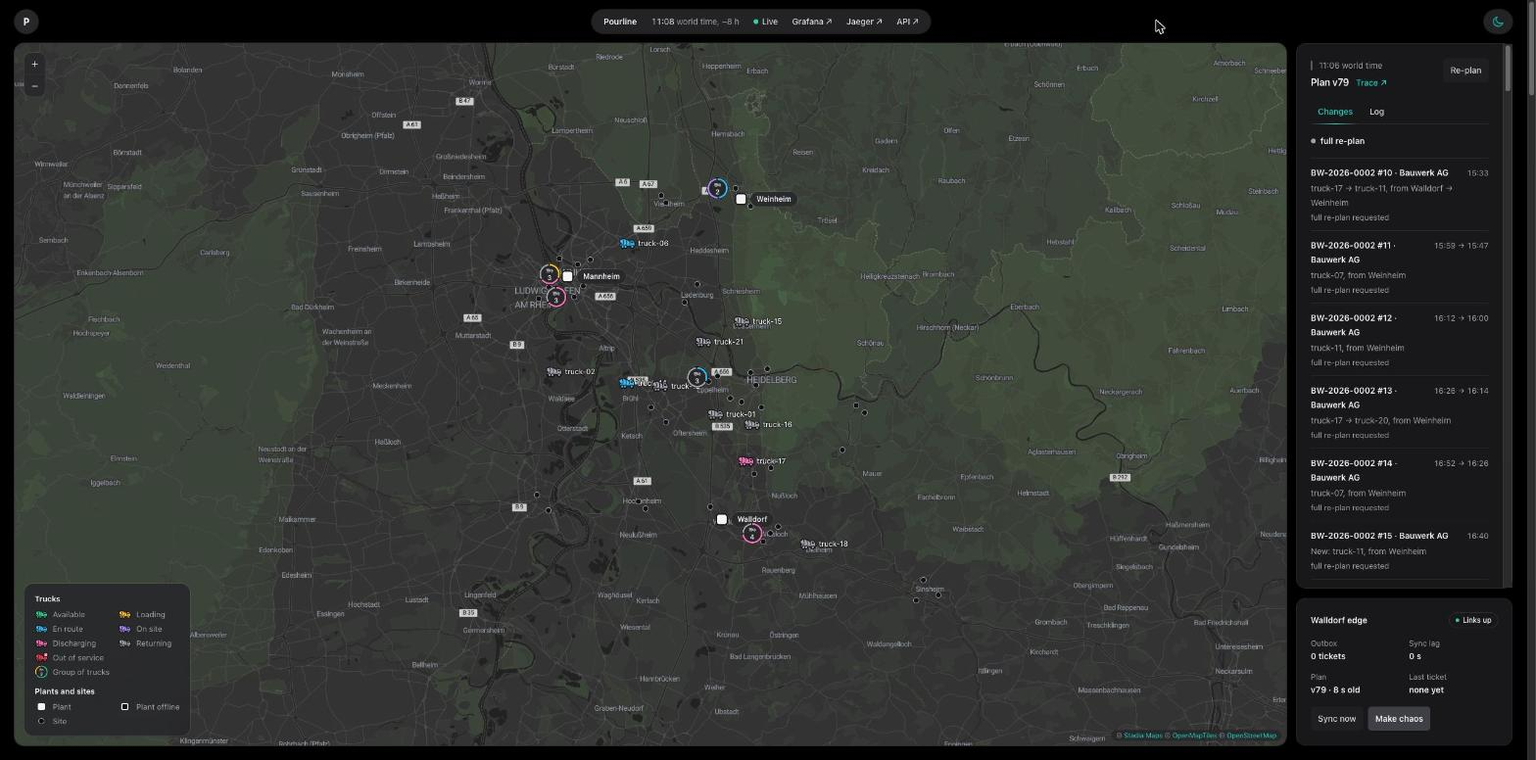
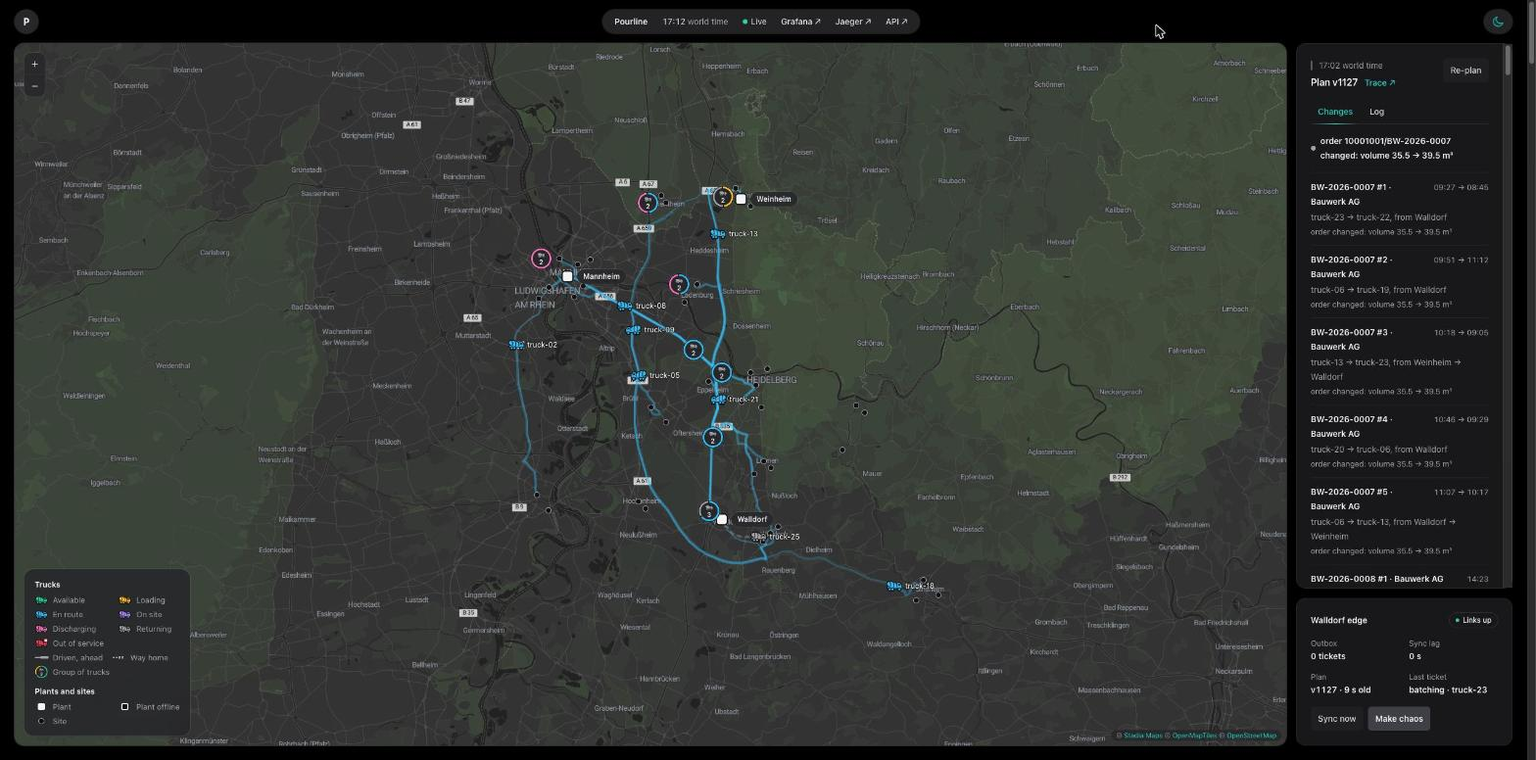
docs: truck lines (M11 step 8)
The README says the trucks drive OpenStreetMap roads from the ODbL file
make routes builds, why their reported speeds vary, and what make routes
needs and does. It adds trucks/{id}/route, events.trucks.> with its route
subject, routes among the traced reports and in the console's pushed and
event-lag kinds, and the roads on the map: thick ahead, thin behind,
dashed on the way home, dimmed except the selected truck's, with the
popup's heading and km to go. How it works covers how the console keeps
and shows routes, the CSP names Leaflet's source map, and the map's
OpenStreetMap credit covers the roads. docs/console.jpg is retaken with
roads.

The architecture doc puts the route in the context, the EVENTS labels,
the simulators row and the console's live path. ADR 0001 is amended for
the route subject, and ADR 0006 for OSRM supplying the simulated roads
offline while travel time stays haversine. The plan's CSP rows now say what
the source-map fix changed.

diff --git a/docs/context/specs/M11-truck-lines-plan.html b/docs/context/specs/M11-truck-lines-plan.html
@@ -207,12 +207,12 @@ while it drives        truck ─MQTT trucks/{id}/gps─▶ … as today ─SSE t
 <tr><td><code>crates/domain</code></td><td><code>events.rs</code>: <code>TruckRouteReported</code>, its subject, the <code>subject()</code> doc, and two test assertions.</td></tr>
 <tr><td><code>crates/ingest</code></td><td><code>telematics.rs</code>: the route arm, its checks and its tests.</td></tr>
 <tr><td><code>crates/dispatch</code></td><td><code>intake.rs</code>: the variant in its two matches, and <code>events.trucks.&gt;</code> in the module doc.</td></tr>
-<tr><td><code>crates/console</code></td><td><code>state.rs</code>: the routes, the rule, the pushes and <code>routes</code> in the snapshot. <code>live.rs</code>: the route arm, a push after each status, the pushes in <code>load_world</code>, and the module doc. <code>http.rs</code> and <code>metrics.rs</code>: <code>route</code> in their doc lists, and one more assertion in the snapshot test. <code>tests/live.rs</code>: two tests. <code>web/app.js</code>: the lines, the split, the legend row, the popup row and the label. <code>web/app.css</code>: <code>.route</code> and the legend samples.</td></tr>
+<tr><td><code>crates/console</code></td><td><code>state.rs</code>: the routes, the rule, the pushes and <code>routes</code> in the snapshot. <code>live.rs</code>: the route arm, a push after each status, the pushes in <code>load_world</code>, and the module doc. <code>http.rs</code> and <code>metrics.rs</code>: <code>route</code> in their doc lists, and one more assertion in the snapshot test. <code>http.rs</code> also lets the CSP’s <code>connect-src</code> fetch Leaflet’s source map, which the browser’s developer tools load; you saw its error after step 3’s deploy. <code>tests/live.rs</code>: two tests. <code>web/app.js</code>: the lines, the split, the legend row, the popup row and the label. <code>web/app.css</code>: <code>.route</code> and the legend samples.</td></tr>
 <tr><td><code>.github/workflows/ci.yml</code></td><td>One line on the metadata step: the simulators image’s licence label (decision 4).</td></tr>
 <tr><td>SPEC and CLAUDE.md</td><td>SPEC §2, §3, §5, §9, §10, §11 and §13, and milestone 11 in CLAUDE.md.</td></tr>
 <tr><td>Other docs</td><td>README: Prerequisites, Commands, Walkthrough step 7, Watching the simulators, Watching ingest, the triggers table, the tracing paragraph, the console’s pushed kinds and event-lag kinds, Map console and the screenshot’s alt text, How it works, the attribution paragraph and License. <code>docs/architecture.md</code>: the Context node and paragraph, the EVENTS labels, the simulators row and the console’s live path. ADRs 0001 and 0006 amended. <code>docs/console.jpg</code> retaken.</td></tr>
 <tr><td>Tools, for <code>make routes</code> only</td><td>osmium-tool from brew, the OSRM image, and Geofabrik’s extracts.</td></tr>
-<tr><td>Unchanged</td><td><code>domain::Truck</code>, the planner and <code>TravelTimeProvider</code>, the NATS streams and consumers, <code>TruckView</code> and <code>/world</code>, the SSE stream’s other events, the CSP, the metrics, the dashboard, the charts, compose, k3d, the e2e, the Dockerfile unless step 1 bumps Rust, and <code>.env.example</code>. No new crate, service, port or variable.</td></tr>
+<tr><td>Unchanged</td><td><code>domain::Truck</code>, the planner and <code>TravelTimeProvider</code>, the NATS streams and consumers, <code>TruckView</code> and <code>/world</code>, the SSE stream’s other events, the metrics, the dashboard, the charts, compose, k3d, the e2e, the Dockerfile unless step 1 bumps Rust, and <code>.env.example</code>. No new crate, service, port or variable.</td></tr>
 </tbody>
 </table>
 
@@ -230,7 +230,7 @@ while it drives        truck ─MQTT trucks/{id}/gps─▶ … as today ─SSE t
 
 <h2 id="security">Security</h2>
 <ul>
-<li>The running stack gains one MQTT topic and one NATS subject, and no port, service, stream or consumer. The console serves the lines from its own state over its existing stream, so the CSP and its test stay as they are. The page still loads only its own files, Leaflet and the tiles.</li>
+<li>The running stack gains one MQTT topic and one NATS subject, and no port, service, stream or consumer. The console serves the lines from its own state over its existing stream. The CSP’s <code>connect-src</code> gains one URL, Leaflet’s source map, which the browser’s developer tools fetch and which its test now names. The page still loads only its own files, Leaflet and the tiles.</li>
 <li>Ingest checks every route at the trust boundary: the shared header (the vehicle matches the topic, and the truck is in the seed), and at least two points, each finite and in range. A malformed route goes to the DLQ, never to the map, and no route reaches <code>TravelTimeProvider</code>, the planner or <code>domain::Truck</code>.</li>
 <li>A message over rumqttc’s 10,240 B limit from any other sender would stall ingest’s MQTT intake instead of dead-lettering. That is how every truck topic behaves today, and the 8 KiB bound keeps our simulators well clear of it.</li>
 <li>The console holds at most one route per seed truck, 25 in all. Our simulators’ routes have at most 215 points today and about 430 within the bound; another sender’s are bounded only by rumqttc’s 10,240 B packet, about 1,700 short points.</li>

diff --git a/README.md b/README.md
@@ -37,6 +37,8 @@ truck down, delay a site or cut the plant off.
   the [k3d install script](https://k3d.io) and [Helm's](https://helm.sh/docs/intro/install/).
   Check with `k3d version && kubectl version --client && helm version`.
 - For `make e2e`, also **kind** and **jq**: `brew install kind jq`.
+- Only for `make routes`: **osmium-tool** (`brew install osmium-tool`) and internet access for a
+  741 MB download. Its output is committed, so nothing else needs it.
 
 ## Walkthrough
 
@@ -67,10 +69,11 @@ step links to the section that explains what you see.
    kubectl --context k3d-cloud -n pourline patch customerintegration bauwerk-ag --type merge -p '{"spec":{"paused":false}}'
    ```
    ([Kubernetes](#kubernetes), [The operator](#the-operator))
-7. **Watch the map.** Open the map console at http://localhost:8080/console. Click a truck and
-   press *Break down*: it turns red with an ×, and if it had planned loads, the panel shows the new
-   plan's changes with a reason for each. The *Log* tab links every action to its trace in Jaeger.
-   ([Map console](#map-console))
+7. **Watch the map.** Open the map console at http://localhost:8080/console. A driving truck shows
+   its road, thick ahead and thin behind. Click one: its road stands out, and its popup says where
+   it is heading and how far it has to go. Press *Break down*: it turns red with an ×, and if it
+   had planned loads, the panel shows the new plan's changes with a reason for each. The *Log* tab
+   links every action to its trace in Jaeger. ([Map console](#map-console))
 8. **Cut the plant off.** Press *Make chaos* on the console's Walldorf card, or run `make chaos`.
    Both cut the Walldorf plant off for two minutes. The plant-agent keeps batching, its outbox
    fills, and it drains in order once the link is back. On a fresh cluster the first cut can end
@@ -92,6 +95,7 @@ step links to the section that explains what you see.
 | `make bench` | Runs the planner benchmarks at 50, 200 and 1,000 loads (a few minutes) |
 | `make audit` | Checks the dependencies against the RustSec advisory database |
 | `make sqlx-prepare` | Refreshes `.sqlx/` after a query or migration changes (needs `make up` and `cargo install sqlx-cli --locked`) |
+| `make routes` | Rebuilds the trucks' roads from OpenStreetMap with a local OSRM, after the seed's plants or sites change (needs Docker, osmium-tool and internet; the output is committed): see [Watching the simulators](#watching-the-simulators) |
 | `make k8s` | Runs Pourline in two k3d clusters, `cloud` and `plant-walldorf`, with the [map console](#map-console): see [Kubernetes](#kubernetes) |
 | `make chaos` | Cuts `plant-walldorf` off the cloud for 2 minutes, then reconnects it, and shows its outbox draining (after `make k8s`): see [`make chaos`](#make-chaos) |
 | `make e2e` | Installs the cloud chart and the three customers on a fresh kind cluster, plays the demo, and checks for a plan and an empty DLQ, as CI does: see [`make e2e`](#make-e2e) |
@@ -124,6 +128,16 @@ around Heidelberg and Mannheim. It holds our master data: 3 customers and their 
 postal code's centroid. The world also has 3 plants, 25 trucks and 4 mix designs. The [architecture doc](docs/architecture.md#context)
 shows how it fits together.
 
+The trucks drive OpenStreetMap roads. [`deploy/seed/rhine-neckar.routes.json`](deploy/seed/rhine-neckar.routes.json)
+holds the road from each plant to each site, 120 in all. A truck drives back on the same road, and
+after a breakdown it drives home along it from where it stopped. A drive still takes as long as it
+would on the straight line between its ends, haversine × 1.3 at 40 km/h, ±10 %, so the speed a
+truck reports depends on how roundabout its road is: 29–91 km/h between plant and site, and up to
+about 106 km/h on a drive home after a breakdown. `make routes` builds the file with OSRM's car
+profile from Geofabrik's extracts, and only needs to run after the seed's plants or sites change.
+It downloads 741 MB into `target/routes`, runs OSRM on `127.0.0.1:5005` while it works, and prints
+a summary to check before you commit the file. The file is under the ODbL: see [License](#license).
+
 ```sh
 make logs                                                         # status changes, tickets, orders, SFTP drops
 docker exec pourline-mosquitto-1 mosquitto_sub -t 'trucks/#' -v   # live truck telematics
@@ -133,7 +147,7 @@ docker exec pourline-sftp-1 ls -l /config/rheinbau-gmbh           # rheinbau-gmb
 
 | What | Channel | Notes |
 |---|---|---|
-| Truck telematics | MQTT `trucks/{id}/gps`, `/drum`, `/status` | GPS every 10 s while moving and every 60 s parked. Some messages are duplicated or reordered, and dead zones end in late bursts. `seq` and `ts_ms` let a consumer restore the order. |
+| Truck telematics | MQTT `trucks/{id}/gps`, `/drum`, `/status`, `/route` | GPS every 10 s while moving and every 60 s parked. A route goes out once per drive, as it begins: the road the truck is about to drive, after its status and before its first fix. Some messages are duplicated or reordered, and dead zones end in late bursts. `seq` and `ts_ms` let a consumer restore the order. |
 | Batch tickets | MQTT `plants/{id}/tickets` | `batching`, `loading` and `loaded` for each load. A plant never runs more batches than it has loading bays. |
 | `bauwerk-ag` orders | HTTP POST, JSON | Every change is re-sent as the full document, and 5 % are sent twice. |
 | `neckar-infra` orders | HTTP POST, XML | Schema v1 and v2 are live side by side. |
@@ -163,9 +177,11 @@ To run the simulators outside Docker, stop the container first (`docker compose 
 ## Watching ingest
 
 Ingest turns every order, telematics message and batch ticket into a canonical event on the
-`EVENTS` stream (subjects `events.orders.*`, `events.trucks.*`, `events.plants.*`). Duplicates
-are skipped, and anything it can't map goes to the `DLQ` stream with every error. The [architecture doc](docs/architecture.md#an-orders-path)
-follows an order through the pipeline.
+`EVENTS` stream (subjects `events.orders.*`, `events.trucks.>`, `events.plants.*`). A truck's
+route has a subject of its own, `events.trucks.{id}.route`, and needs at least two points, each a
+coordinate. Duplicates are skipped, and anything it can't map goes to the `DLQ` stream with every
+error. The [architecture doc](docs/architecture.md#an-orders-path) follows an order through the
+pipeline.
 
 ```sh
 make logs                                    # simulators; for ingest: docker logs -f pourline-ingest-1
@@ -379,12 +395,13 @@ carries the delivery's `trace_id`, so http://localhost:16686/trace/{trace_id} fi
 letters show as red spans.
 
 GPS and drum readings aren't traced. At about two a second they would bury every other trace, and
-they never trigger a re-dispatch. Status reports, batch tickets and every dead letter are traced.
-Spans carry ids and counts, never payloads. Jaeger keeps them in memory, so `make down` clears them.
+they never trigger a re-dispatch. Status reports, routes, batch tickets and every dead letter are
+traced. Spans carry ids and counts, never payloads. Jaeger keeps them in memory, so `make down`
+clears them.
 
 The [map console](#map-console) adds its own spans. Each action starts a trace with a
 `console action` span that carries its action and target, and the console's log links that trace.
-Each truck report, batch ticket and plan version the console pushes to its pages is a
+Each truck report, route, batch ticket and plan version the console pushes to its pages is a
 `console push` span in the trace of the event behind it, so GPS and drum pushes stay untraced
 too. A re-plan from the console is one trace, from the click through dispatch and back to the
 console's push:
@@ -441,9 +458,9 @@ inside the cluster: `kubectl --context k3d-cloud -n pourline port-forward svc/pr
 | `pourline_edge_plan_age_seconds{plant}`, `pourline_edge_plan_version{plant}` | The plan the agent works from, and the time since dispatch last confirmed it |
 | `pourline_edge_tickets_total{plant, outcome}` | Tickets `queued` into the outbox and `sent` from it |
 | `pourline_console_clients` | Pages connected to the map console's live stream |
-| `pourline_console_pushed_total{kind}` | Changes the console pushed to its pages: `truck`, `plant`, `plan`, `edge`, `uplink`, `log` |
+| `pourline_console_pushed_total{kind}` | Changes the console pushed to its pages: `truck`, `route`, `plant`, `plan`, `edge`, `uplink`, `log` |
 | `pourline_console_actions_total{action, outcome}` | Actions from the map, such as `replan` or `make_chaos`: `done`, `refused`, `failed` |
-| `pourline_console_event_lag_seconds{kind}` | From ingest receiving a truck report (`truck`) or a batch ticket (`ticket`) to the console pushing it |
+| `pourline_console_event_lag_seconds{kind}` | From ingest receiving a truck report (`truck`), a route (`route`) or a batch ticket (`ticket`) to the console pushing it |
 
 The plan gauges always describe the current version. Dispatch sets them again from the latest
 stored version when it starts. The “Dispatch overview” dashboard lives in the chart, in
@@ -683,7 +700,7 @@ the stack sees it, and acts on it only through dispatch's API, MQTT commands, th
 webhooks and the plant's uplink, so the hard constraints stay with dispatch. It runs in the cloud
 cluster only; `make up` has no console.
 
-![The map console in the dark theme: the Mannheim, Weinheim and Walldorf plants with their sites, trucks as small mixer-truck icons, grouped trucks as badges with a count, the latest plan's changes in the panel, and the Walldorf edge card](docs/console.jpg)
+![The map console in the dark theme: the Mannheim, Weinheim and Walldorf plants with their sites, trucks as small mixer-truck icons, grouped trucks as badges with a count, driving trucks with the road ahead drawn thick and the road driven thin, dashed on the way home, the latest plan's changes in the panel, and the Walldorf edge card](docs/console.jpg)
 
 The map shows the three plants as squares, hollow while offline, and the 40 sites as rings.
 Trucks are small mixer-truck icons in their status colour, facing the way they last moved. Out of
@@ -696,9 +713,17 @@ it. Below zoom 13, trucks whose icons would overlap become one badge with their 
 the share of each status, and with the × if one of them is out of service. Click the badge, or
 press Enter on it, to zoom in until they come apart.
 
+A truck that is en route or returning shows the road of the drive it is on, as it reported it when
+the drive began: from its plant, the site or where it broke down, to the site or its home plant.
+The road ahead of the icon is thick and the road driven thin, in the truck's status colour, dashed
+on the way home, and a legend row explains them. Every road is dimmed except the selected truck's,
+the one whose popup is open, which is drawn at full opacity on top of the others. The road is the
+truck's own drive, not the plan. A drive whose route was lost has no road, never a wrong one.
+
 A plant, a site or a truck opens a popup:
 
-- a truck: its capacity, home plant and last report, and *Break down*;
+- a truck: its capacity, home plant and last report, and *Break down*; while it drives, also where
+  it is heading and how many km it has to go;
 - a plant: its bays, batching rate and last ticket, its next loads in the latest plan, and *Take
   offline* or *Bring online*, plus *Sync now* for Walldorf;
 - a site: its customer, ship-to number and today's orders, and *Delay 30 min*.
@@ -712,10 +737,10 @@ time and its shift, whether the page is live, and links to Grafana, Jaeger and t
 follows your system's light or dark theme until you flip the toggle. The map works from the
 keyboard too: markers take the focus, Enter opens a popup and Escape closes it.
 
-The map shows the trucks' real telematics, and the panel shows the plan. The simulated trucks
-drive random trips rather than the plan (see [Re-dispatch](#re-dispatch)), so the two don't match.
-In the same way, a simulated plant goes on loading trucks after *Take offline*; only the plan
-moves away from it.
+The map shows the trucks' real telematics and roads, and the panel shows the plan. The simulated
+trucks drive random trips rather than the plan (see [Re-dispatch](#re-dispatch)), so the two don't
+match. In the same way, a simulated plant goes on loading trucks after *Take offline*; only the
+plan moves away from it.
 
 ### Actions
 
@@ -757,8 +782,8 @@ keep showing the plant.
 
 The console keeps one copy of the world for every page, and nothing polls dispatch for it:
 
-- Truck telematics and batch tickets: MQTT → ingest → NATS (`events.trucks.>`, `events.plants.>`)
-  → console → server-sent events → page.
+- Truck telematics, routes included, and batch tickets: MQTT → ingest → NATS (`events.trucks.>`,
+  `events.plants.>`) → console → server-sent events → page.
 - Plans: dispatch stores a version and announces it on `plans.updated`, a core NATS subject, with
   the re-dispatch's `traceparent`. The console fetches its diff and pushes it to the pages.
 - The edge card: the console reads the agent's `/status` over the plant's monitoring path, and the
@@ -768,9 +793,13 @@ The console starts from the seed's master data, follows NATS, and reads dispatch
 each truck's status and position with their report times, each plant's status and the latest plan
 version. It reads `/world` again after each plan update and after a NATS reconnect, which catches a
 version that core NATS dropped. Each truck field keeps its newest value by report time, whichever
-way it came. A page gets a snapshot, then every change, and a heartbeat with the world time every
-15 s; ages and fading go by that clock. A page that falls behind, or hears nothing for 45 s,
-reconnects for a new snapshot, and a hidden tab lets go of its stream.
+way it came. The console also keeps each truck's latest route, which `/world` doesn't carry, and
+gives a page the route only while the truck is en route or returning and the route is no older
+than that status, so a route from an earlier drive is never drawn. Routes have subjects of their
+own, so a restarted console reads every truck's latest route back from the stream. A page gets a
+snapshot, then every change, and a heartbeat with the world time every 15 s; ages and fading go by
+that clock. A page that falls behind, or hears nothing for 45 s, reconnects for a new snapshot,
+and a hidden tab lets go of its stream.
 
 There is no login: from outside the cluster, the console is reachable only on `127.0.0.1:8080`.
 Every `POST`, `PUT` and `DELETE` needs the `X-Pourline-Console` header and a `Host` from
@@ -779,14 +808,16 @@ can't send that header without a CORS preflight, which the console never answers
 check stops DNS rebinding. Reads are open, because they serve simulated data. Truck, site and plant
 ids must exist in the seed before they reach an MQTT topic or a dispatch URL. The page sends a
 Content-Security-Policy that lets it load only its own files, Leaflet 1.9.4 from unpkg.com (pinned
-with SRI) and Stadia's tiles, with no inline script or style and no framing.
+with SRI) with its source map for the browser's developer tools, and Stadia's tiles, with no
+inline script or style and no framing.
 
 The basemap is Stadia Maps' Alidade Smooth, and Alidade Smooth Dark in the dark theme (© Stadia
-Maps, © OpenMapTiles, © OpenStreetMap contributors). Stadia serves these tiles without a key only to
-`localhost` and `127.0.0.1`, rate-limited, and free only for non-commercial use: check its terms
-before you serve the console anywhere else. The browser needs internet access for the tiles and for
-Leaflet. If the tiles fail, the map says so and the trucks still update; without Leaflet, the panel
-and its actions still work.
+Maps, © OpenMapTiles, © OpenStreetMap contributors). The trucks' roads are OpenStreetMap data too,
+under the ODbL (see [License](#license)), and the same credit covers them. Stadia serves these
+tiles without a key only to `localhost` and `127.0.0.1`, rate-limited, and free only for
+non-commercial use: check its terms before you serve the console anywhere else. The browser needs
+internet access for the tiles and for Leaflet. If the tiles fail, the map says so and the trucks
+still update; without Leaflet, the panel and its actions still work.
 
 | Variable | Default | Effect |
 |---|---|---|

diff --git a/docs/architecture.md b/docs/architecture.md
@@ -24,7 +24,7 @@ does it. The [ADRs](adr/) record why.
 ```mermaid
 flowchart LR
     contractors["Contractors' systems<br/>JSON webhook, CSV over SFTP, XML webhook"]
-    trucks["Trucks<br/>GPS, drum, status over MQTT"]
+    trucks["Trucks<br/>GPS, drum, status, route over MQTT"]
     plants["Batching plants<br/>a plant-agent each"]
     dispatcher["Dispatcher<br/>map console, REST API, Grafana, Jaeger"]
     pourline(["Pourline"])
@@ -37,6 +37,8 @@ flowchart LR
 
 Everything outside Pourline is simulated (`crates/simulators`): 25 trucks, three plants and three
 contractors in the Rhine-Neckar area, from [`deploy/seed/rhine-neckar.json`](../deploy/seed/rhine-neckar.json).
+The trucks drive OpenStreetMap roads from [`deploy/seed/rhine-neckar.routes.json`](../deploy/seed/rhine-neckar.routes.json)
+(ODbL), which `make routes` builds with OSRM, and report each drive's road as it begins.
 Customers, ship-tos, plants, trucks and mix designs are Pourline's own master data. Customers never
 send them: an order names our customer number and ship-to number.
 
@@ -55,7 +57,7 @@ flowchart LR
     ingest["ingest<br/>mappings, validation, dedup"]
 
     subgraph nats["NATS JetStream"]
-        events[("EVENTS<br/>events.orders.*, events.trucks.*, events.plants.*")]
+        events[("EVENTS<br/>events.orders.*, events.trucks.>, events.plants.*")]
         dlq[("DLQ<br/>dlq.* per integration")]
         kv[("KV buckets<br/>ingest-dedup, ingest-status")]
     end
@@ -80,7 +82,7 @@ flowchart LR
     agent -- "GET /plants/{id}/plan" --> dispatch
     cli <--> dlq
     operator -. "dead letters, last ingest" .-> nats
-    events -- "trucks, tickets" --> console
+    events -- "trucks, routes, tickets" --> console
     dispatch -- "plans.updated" --> console
     console -- "GET /world, diffs, actions" --> dispatch
     mqtt -- "breakdown and sync<br/>commands from the console" --- console
@@ -96,7 +98,7 @@ flowchart LR
 | [`operator`](../crates/operator) | Runs each `CustomerIntegration` resource as its own ingest workload, and reports its status |
 | [`console`](../crates/console) | The map console, in Kubernetes: the live fleet, the latest plan and its diff, the plant's edge, and actions that change the world |
 | [`telemetry`](../crates/telemetry) | Shared tracing, OTLP export and the Prometheus listener |
-| [`simulators`](../crates/simulators) | The fake world: trucks, plants, contractors, plus the `demo` scenario |
+| [`simulators`](../crates/simulators) | The fake world: trucks on OpenStreetMap roads, plants, contractors, plus the `demo` scenario and `routes`, which builds the roads for `make routes` |
 
 Each service reads its configuration from environment variables with defaults; the README lists
 them per service, and [`.env.example`](../.env.example) collects the ones worth overriding.
@@ -237,7 +239,7 @@ flowchart TB
     trucks -- telematics --> mqtt
     agent -- "tickets, through the uplink" --> mqtt
     mqtt --> ingest
-    ingest -- "events.trucks.*,<br/>events.plants.*" --> nats
+    ingest -- "events.trucks.>,<br/>events.plants.*" --> nats
     dispatch -- "plans.updated" --> nats
     nats --> console
     agent -. "/status every 2 s,<br/>past the uplink" .-> console
@@ -251,11 +253,14 @@ flowchart TB
 
 - **The live path.** Truck telematics and batch tickets reach the console as canonical events, on
   an ordered consumer that starts at each subject's last message, so every truck and plant has its
-  latest event at once. Dispatch announces each version it stores on `plans.updated`, a core NATS
-  subject outside the EVENTS stream, and the console fetches its diff. `GET /world` gives the
-  starting truck and plant state and the latest version. The console reads it again after each
-  announcement and after a NATS reconnect, which catches a version core NATS dropped. Each truck
-  field keeps its newest value by report time, whichever way it came.
+  latest event at once. A truck's route, the road of the drive it begins, has a subject of its own
+  (`events.trucks.{id}.route`), so every truck's latest route comes along too; the console shows it
+  while the truck is en route or returning and the route is no older than that status. Dispatch
+  announces each version it stores on `plans.updated`, a core NATS subject outside the EVENTS
+  stream, and the console fetches its diff. `GET /world` gives the starting truck and plant state
+  and the latest version. The console reads it again after each announcement and after a NATS
+  reconnect, which catches a version core NATS dropped. Each truck field keeps its newest value by
+  report time, whichever way it came.
 - **Pages** get a snapshot, then each change as a server-sent event, and a heartbeat with the world
   time every 15 s. A page that falls behind is dropped, and its browser reconnects for a new
   snapshot. A page talks only to the console. Apart from its actions, only a plant's or a site's

diff --git a/docs/adr/0006-haversine-travel-time-behind-a-trait.md b/docs/adr/0006-haversine-travel-time-behind-a-trait.md
@@ -1,6 +1,6 @@
 # ADR 0006: Haversine travel time behind a trait (and when to switch to OSRM)
 
-- **Status:** Accepted
+- **Status:** Accepted, amended 2026-11-15
 - **Date:** 2026-11-09 (milestone 4)
 
 ## Context
@@ -25,6 +25,17 @@ only implementation, `HaversineTravelTime`, is:
 - ÷ 45 km/h, or 30 km/h when leaving between 07:00–09:00 or 16:00–18:00 Berlin time.
 
 The planner, local search, the checker and the re-dispatch worker see only the trait.
+
+**Amendment (milestone 11):** OSRM now supplies the simulated trucks' roads, offline. `make routes`,
+run by hand, asks a local OSRM for the road from each plant to each site and writes them to
+[`deploy/seed/rhine-neckar.routes.json`](../../deploy/seed/rhine-neckar.routes.json) (ODbL), which
+is checked by hand and committed. The map console draws each drive's road. The plan's travel time
+stays haversine, and each simulated drive still takes the simulators' straight-line time (haversine
+× 1.3 at 40 km/h, ±10 %): a truck's GPS fixes now follow its road and its reported speed varies with
+the road's length, but it arrives when it did before. None of the switch criteria below is met:
+every truck is still simulated. Unlike the fixed matrix rejected below, a missing road breaks
+nothing: that pair drives the straight line, and a test checks that every plant has a road to every
+site in the seed.
 
 ## Consequences
 

diff --git a/docs/adr/0001-nats-jetstream-over-kafka.md b/docs/adr/0001-nats-jetstream-over-kafka.md
@@ -1,6 +1,6 @@
 # ADR 0001: NATS JetStream over Kafka
 
-- **Status:** Accepted
+- **Status:** Accepted, amended 2026-11-15
 - **Date:** 2026-11-09 (milestone 1)
 
 ## Context
@@ -38,6 +38,12 @@ NATS with JetStream is the event backbone ([`crates/ingest/src/nats.rs`](../../c
 
 One NATS server runs everywhere: in compose, in the cloud chart, and in the tests through
 testcontainers.
+
+**Amendment (milestone 11):** a truck's route, the road of the drive it begins, is an event of its
+own on `events.trucks.<truck>.route`, beside the truck's other reports on `events.trucks.<truck>`.
+On a subject of its own, the latest route outlives the reports that follow it, so the map
+console's consumer, which starts at each subject's last message, gets every truck's route back
+after a restart. Dispatch reads `events.trucks.>`, acks each route and changes nothing.
 
 ## Consequences
 
